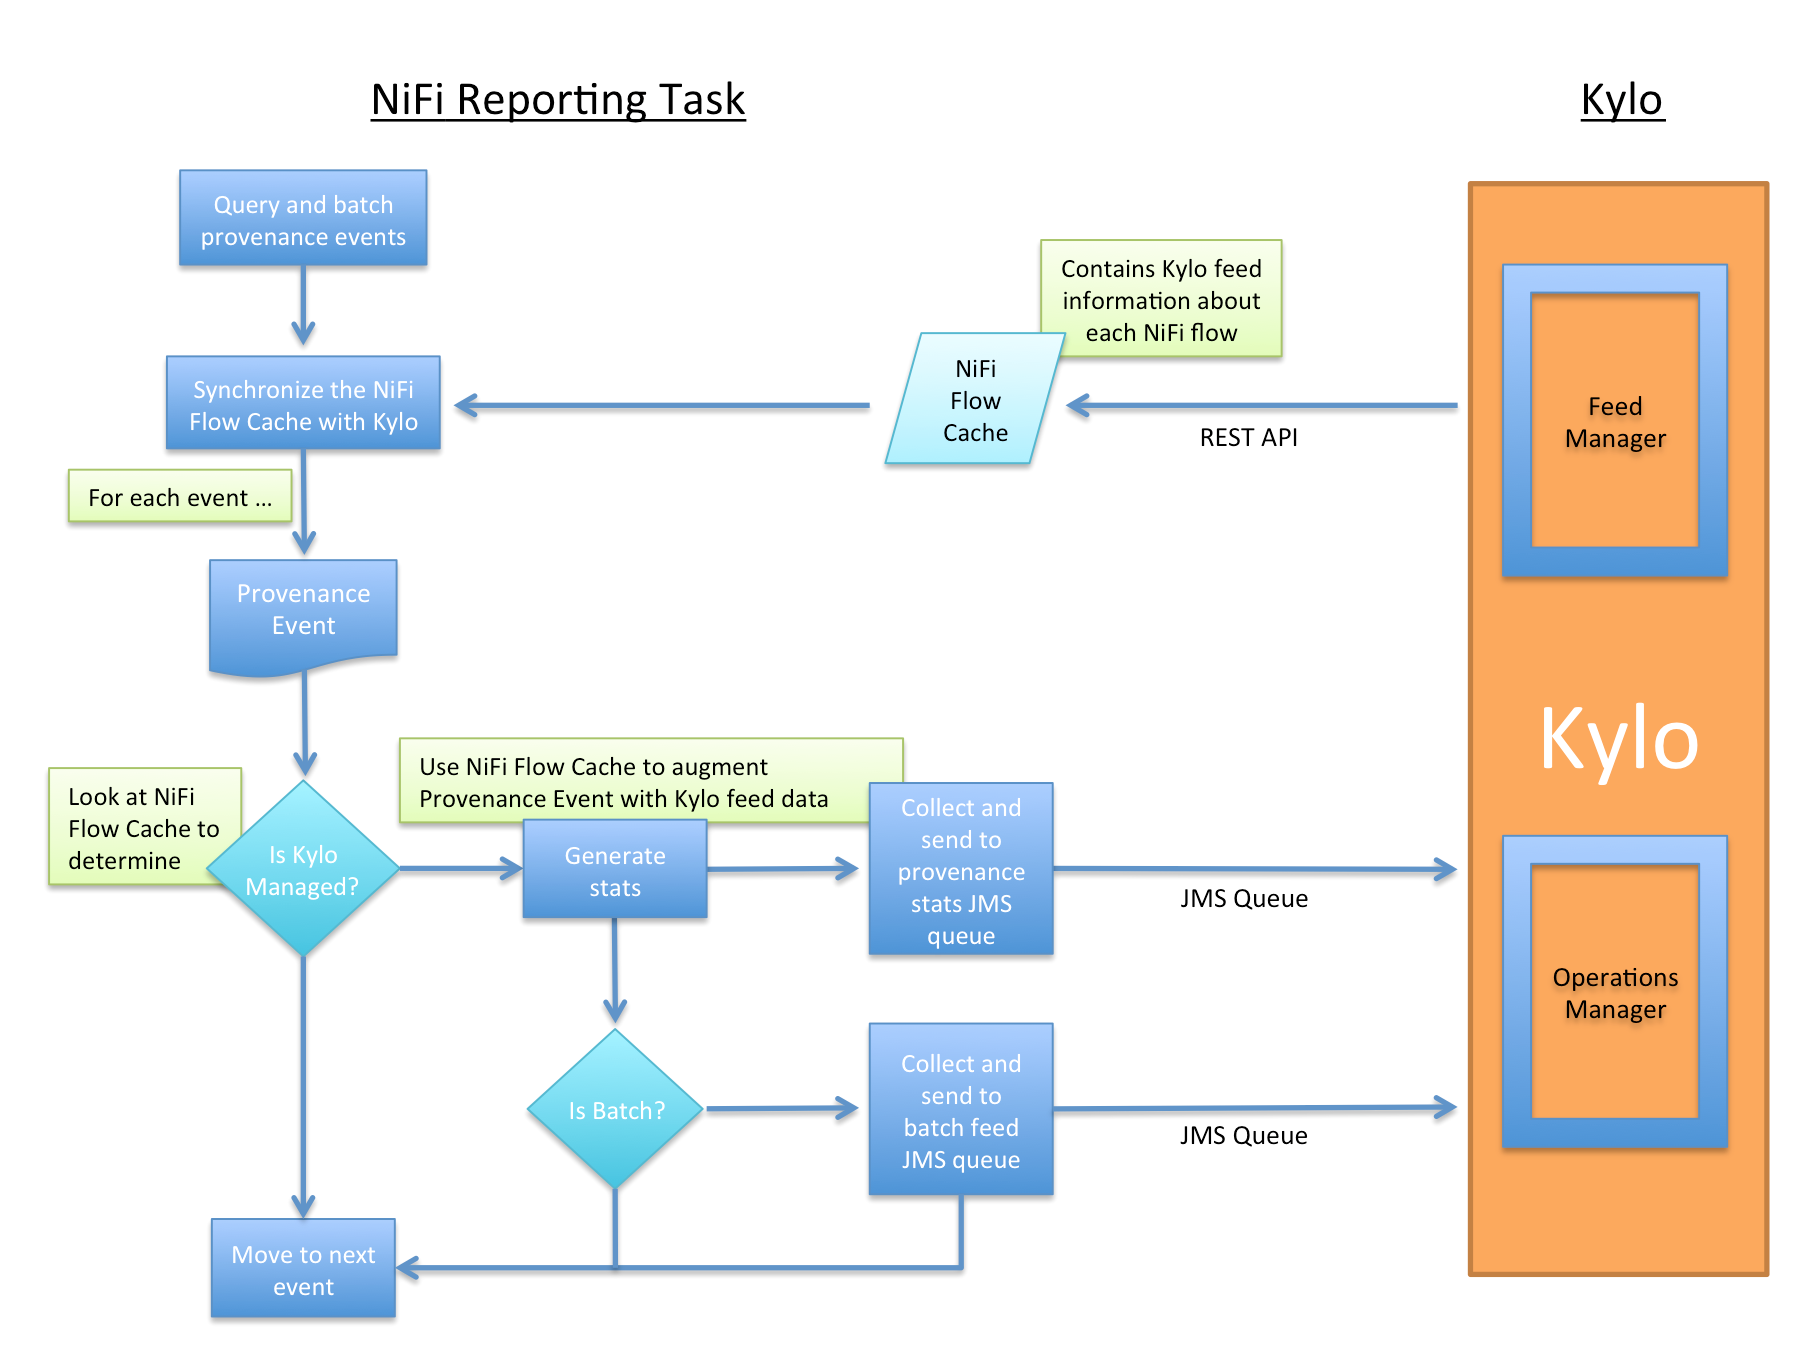
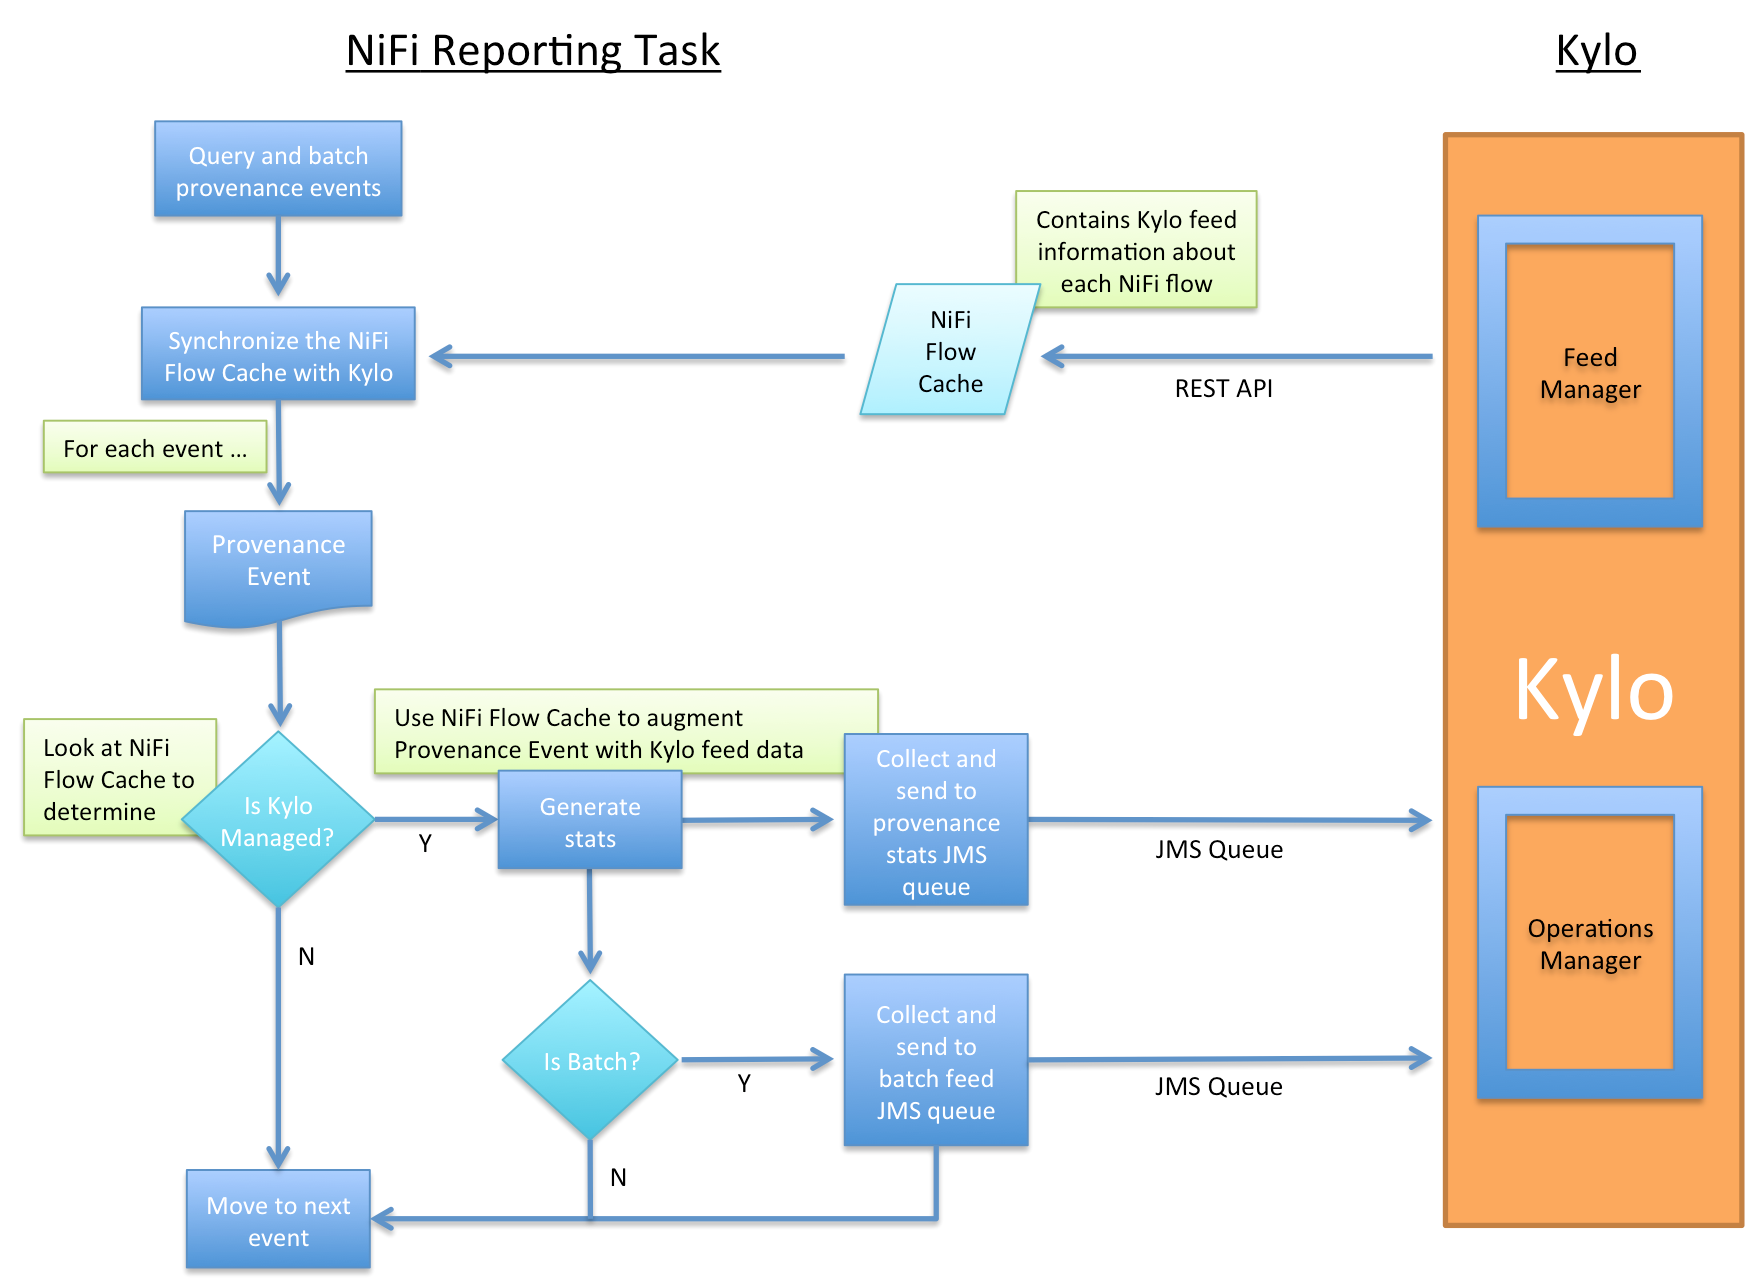
reporting task docs

Changed region(s): [[0.0, 0.0312, 1.0, 1.0]]

diff --git a/how-to-guides/NiFiKyloProvenanceReportingTask.rst b/how-to-guides/NiFiKyloProvenanceReportingTask.rst
@@ -126,5 +126,5 @@ Reporting Task Properties
    :width: 989px
    :height: 372px
 .. |image6| image:: ../media/provenance-reporting/KyloProvenanceReportingTask.png
-   :width: 1803px
-   :height: 1352px
+   :width: 1759px
+   :height: 1280px
